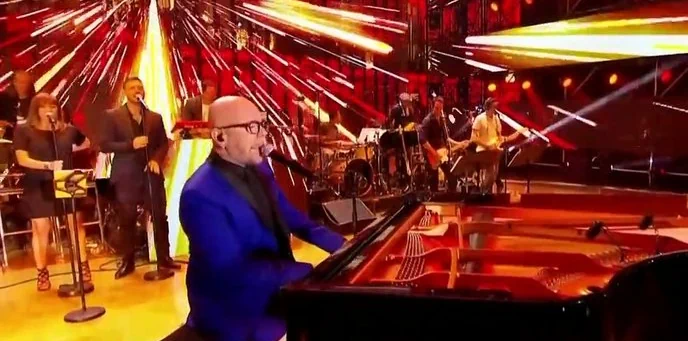
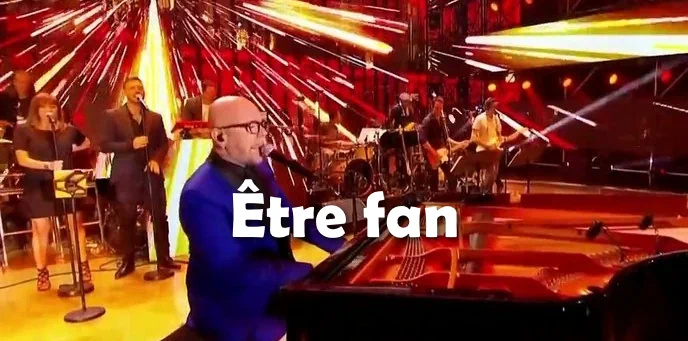
Updated article

Changed region(s): [[0.3358, 0.5279, 0.6715, 0.7331]]

diff --git a/data/blog/fr/dev-ou-fan.md b/data/blog/fr/dev-ou-fan.md
@@ -1,6 +1,6 @@
 ---
 title: Être fan
-description: Êtes-vous un développeur ? Ou juste un fan ?
+description: Si je code, si je code... c'est pour...
 date: "2023-05-24"
 category: development
 coverImage:
@@ -13,7 +13,7 @@ Rien de très technique aujourd'hui...
 > "Rooooooh !"  
 — Les lecteurs qui n'ont pas cru le titre
 
-... puisque nous allons parler du développement en général. Du métier de développeur surtout.
+... puisque nous allons parler du développement en général. Du métier de développeur/développeuse surtout.
 
 Récemment, j'ai posté quelque chose de très court sur le fait que j'en ai marre de voir **MongoDB** (une base de donnée non-relationnelle) sur des projets qui sont **pensés tout en relationnel**, et les dégâts qu'une telle décision peut engendrer.
 
@@ -109,6 +109,8 @@ C'est ça, **être pro**.
 Lancer des confettis à chaque fois que ReactJS/NextJS annonce un nouveau hook, défendre le fait de jeter son code parce que les devs de ces outils ont (encore) décidé de tout changer, vénérer chaque mot qui sort de la bouche de **Dan Abramov**...
 
 Ça, c'est **être fan**.
+
+Et vous ? Êtes-vous développeur ? Ou juste un fan ?
 
 > PS : Je précise parce qu'il le faut : je n'ai rien contre **Dan Abramov** ni contre **MongoDB**, que j'utilise très souvent.  
 > ...  
